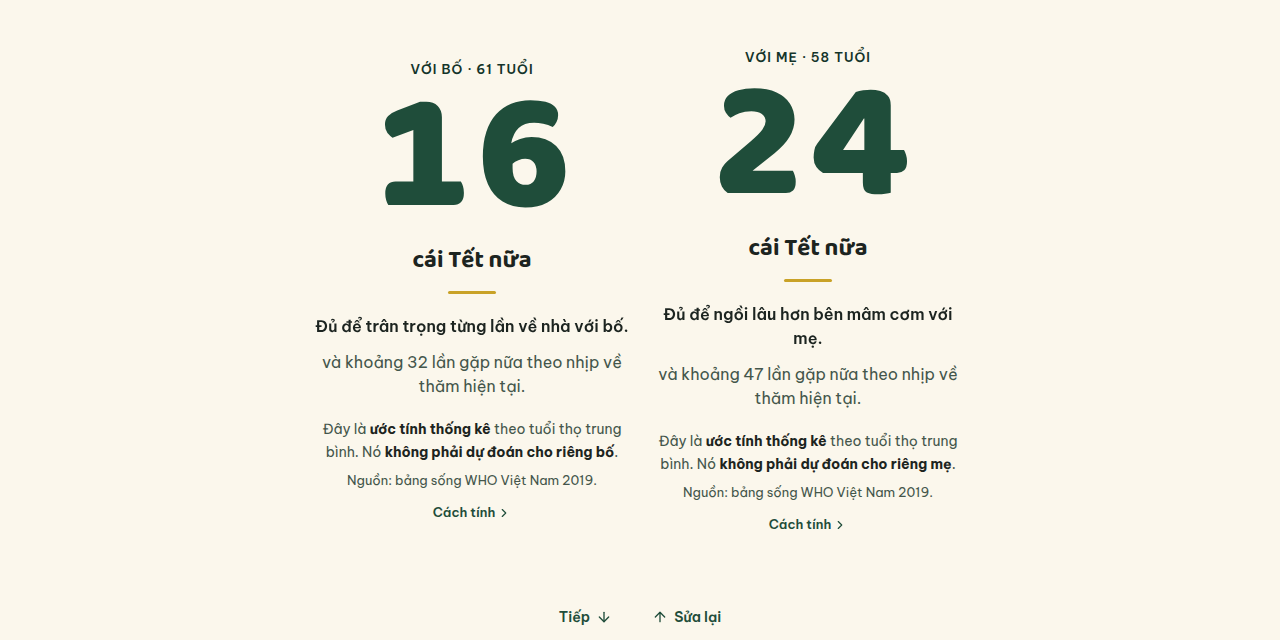
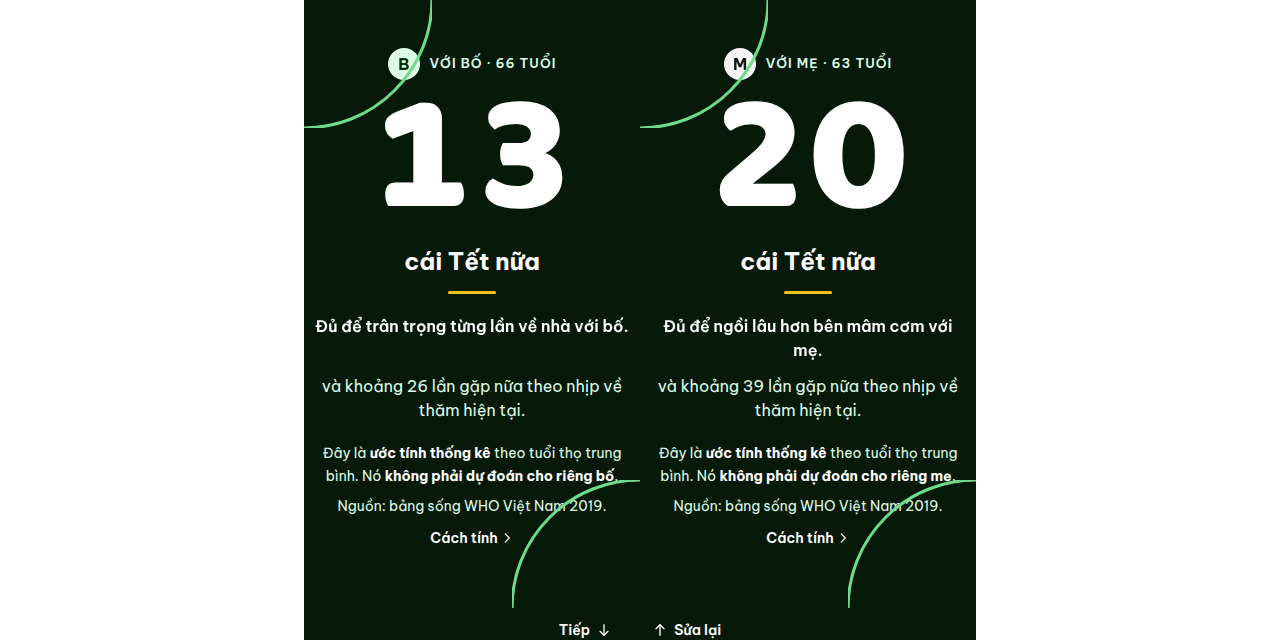
docs: screenshot pack re-shot on live v1.2.0 + README staleness fixes (test count 193, V4 brand assets)

diff --git a/README.md b/README.md
@@ -5,9 +5,9 @@ cần đăng nhập, không cài app, mở link là tính được ngay trên tr
 Repo: https://github.com/changvn2002/conmaytet
 
 <p align="center">
-  <img src="docs/screenshots/conmaytet-desktop.png" alt="Còn Mấy Cái Tết Nữa? — kết quả: còn 16 cái Tết với bố và 24 cái Tết với mẹ" width="900">
+  <img src="docs/screenshots/conmaytet-desktop.png" alt="Còn Mấy Cái Tết Nữa? — kết quả: còn 13 cái Tết với bố và 20 cái Tết với mẹ" width="900">
 </p>
-<p align="center"><em>Một người sinh năm 1995, bố sinh 1965, mẹ sinh 1968, mỗi năm về nhà 2 lần: app tính ra còn khoảng <strong>16 cái Tết với bố</strong> (32 lần gặp) và <strong>24 cái Tết với mẹ</strong> (47 lần gặp) — mỗi con số đứng trần trên một sân khấu riêng, không thẻ, không khung. Ảnh chụp thật từ bản production đang chạy.</em></p>
+<p align="center"><em>Một người sinh năm 1990, bố sinh 1960, mẹ sinh 1963, mỗi năm về nhà 2 lần: app tính ra còn khoảng <strong>13 cái Tết với bố</strong> (26 lần gặp) và <strong>20 cái Tết với mẹ</strong> (39 lần gặp) — mỗi con số đứng trần trên một sân khấu riêng, không thẻ, không khung. Ảnh chụp thật từ bản production đang chạy.</em></p>
 
 Đi làm xa, mỗi năm về nhà được một hai lần — vậy **còn bao nhiêu cái Tết với bố
 mẹ** nữa? **Còn Mấy Cái Tết Nữa?** giúp bạn nhìn thấy con số đó: nhập năm sinh
@@ -29,23 +29,23 @@ Tất cả ảnh dưới đây được chụp trực tiếp từ bản producti
 trạng thái **đã nhập xong một bộ dữ liệu đầy đủ và hiển thị kết quả** — đúng
 những gì người dùng nhìn thấy sau khi nhập. Giao diện là một luồng 4 cảnh nối
 tiếp nhau (Scene Flow): Lời mời → Sân khấu số → Câu chuyện tuần đời → Gửi đi.
-Bộ dữ liệu trong ảnh: bạn sinh 15/06/1995, giới tính Nam, bố sinh 1965, mẹ
-sinh 1968, về thăm nhà 2 lần/năm.
+Bộ dữ liệu trong ảnh: bạn sinh 20/05/1990, giới tính Nữ, bố sinh 1960, mẹ
+sinh 1963, về thăm nhà 2 lần/năm.
 
 ### Cảnh 2 — Sân khấu số: giá trị cốt lõi của app
 
 ![Desktop 1440×900 — Cảnh 2: hai sân khấu số lớn của bố và mẹ đứng cạnh nhau](docs/screenshots/conmaytet-desktop.png)
 
-_Trên desktop, hai sân khấu số đứng cạnh nhau, con số đứng trần giữa nền giấy
-— không thẻ, không viền: **với bố (61 tuổi): 16 cái Tết nữa, khoảng 32 lần
-gặp**; **với mẹ (58 tuổi): 24 cái Tết nữa, khoảng 47 lần gặp**. Dưới mỗi con
-số là một câu riêng cho từng người, dòng lưu ý đây là ước tính thống kê và
+_Trên desktop, hai sân khấu số đứng cạnh nhau, con số đứng trần giữa nền xanh
+đậm — không thẻ, không viền: **với bố (66 tuổi): 13 cái Tết nữa, khoảng 26
+lần gặp**; **với mẹ (63 tuổi): 20 cái Tết nữa, khoảng 39 lần gặp**. Dưới mỗi
+con số là một câu riêng cho từng người, dòng lưu ý đây là ước tính thống kê và
 nguồn bảng sống WHO Việt Nam 2019._
 
 | Mobile (390×844) | Social / link-preview (1280×640) |
 | --- | --- |
 | ![Mobile — sân khấu số của bố chiếm trọn màn hình điện thoại](docs/screenshots/conmaytet-mobile.png) | ![Social — khung ngang vẫn thấy trọn hai sân khấu số](docs/screenshots/conmaytet-social.png) |
-| _Trên điện thoại, mỗi sân khấu chiếm trọn một màn hình: trong ảnh là sân khấu của bố — số 16 thật lớn, đọc rõ cùng câu riêng và dòng ước tính thống kê; cuộn xuống là sân khấu của mẹ._ | _Khung 1280×640 dùng khi gửi link app qua Zalo/Facebook — vẫn thấy trọn cả hai sân khấu số và đủ phần giải thích dưới mỗi con số._ |
+| _Trên điện thoại, mỗi sân khấu chiếm trọn một màn hình: trong ảnh là sân khấu của bố — số 13 thật lớn, đọc rõ cùng câu riêng và dòng ước tính thống kê; cuộn xuống là sân khấu của mẹ._ | _Khung 1280×640 dùng khi gửi link app qua Zalo/Facebook — vẫn thấy trọn cả hai sân khấu số và đủ phần giải thích dưới mỗi con số._ |
 
 ### Theo từng cảnh
 
@@ -53,31 +53,35 @@ nguồn bảng sống WHO Việt Nam 2019._
 thăm.** Kết quả tự cập nhật ngay khi nhập, không cần bấm nút tính; nút "Xem
 còn mấy cái Tết" chỉ để cuộn xuống sân khấu số.
 
-![Cảnh 1 — lời mời đã nhập: sinh 15/06/1995, Nam, bố 1965, mẹ 1968, về thăm 2 lần/năm](docs/screenshots/gallery-01-form-da-nhap.png)
+![Cảnh 1 — lời mời đã nhập: sinh 20/05/1990, Nữ, bố 1960, mẹ 1963, về thăm 2 lần/năm](docs/screenshots/gallery-01-form-da-nhap.png)
 
 **Cảnh 2 — Sân khấu số: đọc con số của từng người.** Mỗi người một sân khấu
-riêng: số cái Tết còn lại bằng số Baloo 2 thật lớn, số lần gặp còn lại theo
+riêng trên nền xanh đậm, eyebrow kèm avatar initials — «B» cho bố, «M» cho
+mẹ: số cái Tết còn lại bằng số Baloo 2 thật lớn, số lần gặp còn lại theo
 nhịp về thăm hiện tại, câu riêng cho bố và cho mẹ, và dòng nguồn số liệu ngay
 dưới con số.
 
-![Cảnh 2 — hai sân khấu số: 16 cái Tết với bố, 24 cái Tết với mẹ](docs/screenshots/gallery-02-ket-qua-bo-me.png)
+![Cảnh 2 — hai sân khấu số: 13 cái Tết với bố, 20 cái Tết với mẹ](docs/screenshots/gallery-02-ket-qua-bo-me.png)
 
-**Cảnh 3 — Cuộc đời bạn, kể bằng tuần.** Mỗi chấm là một tuần: chấm xanh
-thông là những tuần đã sống, chấm vàng có nhãn "Bạn đang ở tuần này" là tuần
-hiện tại, phần nhạt là những tuần còn lại theo kỳ vọng thống kê. Các mốc tuổi
-30 · 40 · 50 · 60 neo ngay trước hàng tuần tương ứng (trong ảnh: 30 tuổi ·
-2025, 40 tuổi · 2035, 50 tuổi · 2045, 60 tuổi · 2055). Người trong ảnh đã
-sống 1.636 tuần trên tổng số khoảng 3.780 tuần (43,3%); ngay dưới lưới là 4
-con số của chính bạn: 11.453 ngày đã sống, ≈ 387 lần trăng tròn đã qua, 31
-cái Tết đã trải qua và 43,3% đời người đã qua theo thống kê.
+**Cảnh 3 — Cuộc đời bạn, kể bằng tuần.** Đầu cảnh là avatar initials «B»
+cạnh nhãn «Bạn». Mỗi chấm là một tuần: chấm xanh lá đậm là những tuần đã
+sống, tuần hiện tại là chấm xanh đậm lớn hơn ở cuối phần đã sống, có nhãn
+"Bạn đang ở tuần này" ngay bên dưới, phần chấm xám nhạt là những tuần còn
+lại theo kỳ vọng thống kê. Các mốc tuổi 30 · 40 · 50 · 60 neo ngay trước
+hàng tuần tương ứng (trong ảnh: 30 tuổi · 2020, 40 tuổi · 2030, 50 tuổi ·
+2040, 60 tuổi · 2050). Người trong ảnh đã
+sống 1.900 tuần trên tổng số khoảng 4.177 tuần (45,5%); ngay dưới lưới là 4
+con số của chính bạn: 13.306 ngày đã sống, ≈ 450 lần trăng tròn đã qua, 36
+cái Tết đã trải qua và 45,5% đời người đã qua theo thống kê.
 
 ![Cảnh 3 — lưới tuần cuộc đời: tuần đã sống, tuần này có nhãn, các mốc tuổi và tuần còn lại](docs/screenshots/gallery-03-luoi-tuan-cuoc-doi.png)
 
 **Cảnh 4 — Gửi đi: xem trước thẻ kết quả thật trước khi chia sẻ.** Thẻ do
-chính app vẽ bằng canvas ngay trên trình duyệt, mang cả hai con số (16 với
-bố, 24 với mẹ), câu riêng của từng người và dòng "ước tính thống kê — không
-phải dự đoán" in ngay trên thẻ. Từ đây bạn copy đoạn text kết quả hoặc tải
-ảnh thẻ về máy.
+chính app vẽ bằng canvas ngay trên trình duyệt, mang cả hai con số (13 với
+bố, 20 với mẹ), câu riêng của từng người và dòng "ước tính thống kê — không
+phải dự đoán" in ngay trên thẻ. Đầu thẻ là vòng tròn ở giữa cùng hoa outline
+hai bên và dải xanh ở chân thẻ — không có motif lì xì. Từ đây bạn copy đoạn
+text kết quả hoặc tải ảnh thẻ về máy.
 
 ![Cảnh 4 — gửi đi: thẻ kết quả xem trước cùng nút Copy kết quả và Tải ảnh thẻ kết quả](docs/screenshots/gallery-04-tien-the-chia-se.png)
 
@@ -170,13 +174,13 @@ không backend, không cơ sở dữ liệu, không tài khoản:
 - Nội dung giải thích + FAQ được render phía server; JSON-LD WebApplication
   + FAQPage; SEO/PWA đầy đủ: metadata + Open Graph, sitemap, robots, web
   app manifest, icon cài lên màn hình chính, chạy standalone.
-- Minh hoạ duy nhất của app là `illustration-calendar.svg` từ bộ asset
-  thiết kế v2 (bản trong repo: `public/images/calendar-spot.svg` /
-  `.webp`) — hình ảnh gợi con người bằng vật, không vẽ mặt người.
+- Nhận diện hình ảnh của app là bộ asset tự vẽ «Vòng Năm» trong
+  `public/products/brand/` (mark, lockup, hero-ring) theo hồ sơ
+  REDESIGN-V4 — hình ảnh gợi con người bằng vật, không vẽ mặt người.
 
 ## Kiểm thử
 
-- **Vitest — 184 test** (tất cả đạt): thuật toán âm lịch với ground truth
+- **Vitest — 193 test** (tất cả đạt): thuật toán âm lịch với ground truth
   ngày Tết 2024–2035 đã verify độc lập, bảng tuổi thọ và nội suy, phép tính
   kết quả, lớp lọc của storage, và luồng xoá + hoàn tác của biểu mẫu. Chạy
   bằng `pnpm test`.
